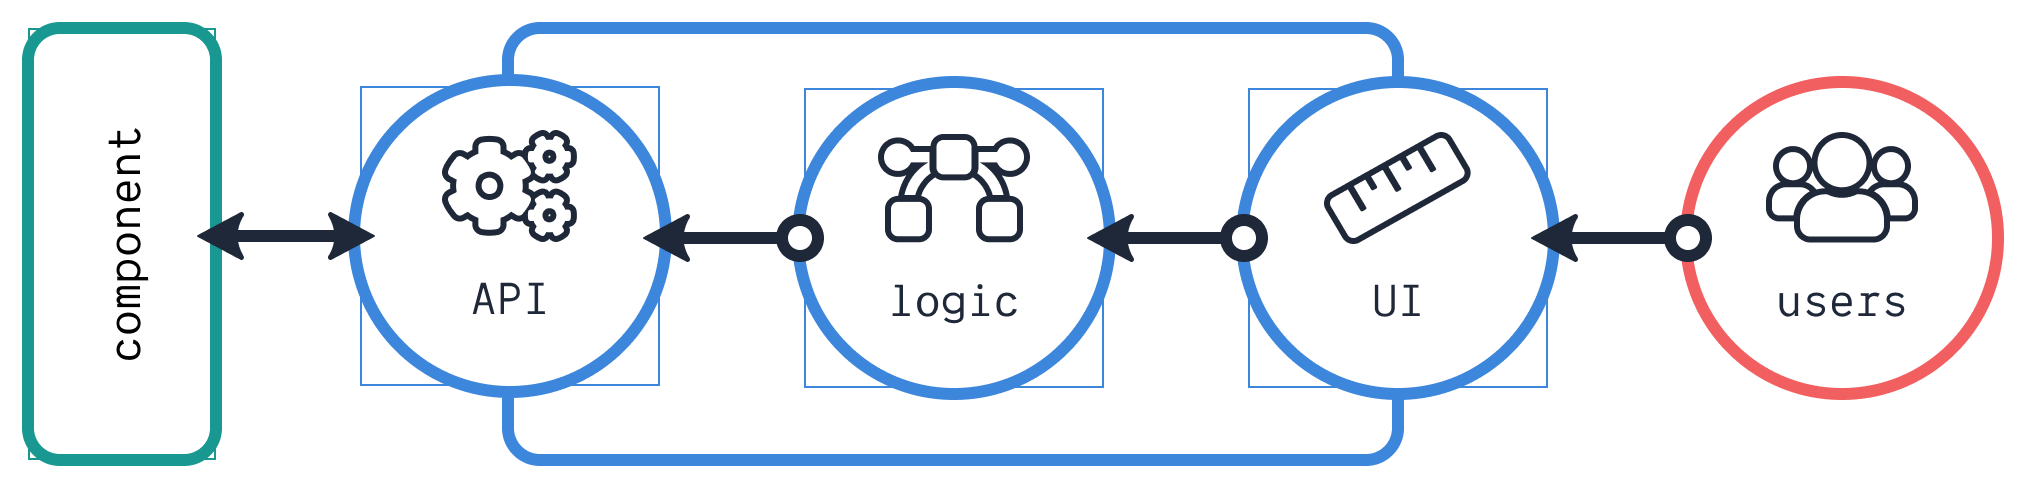
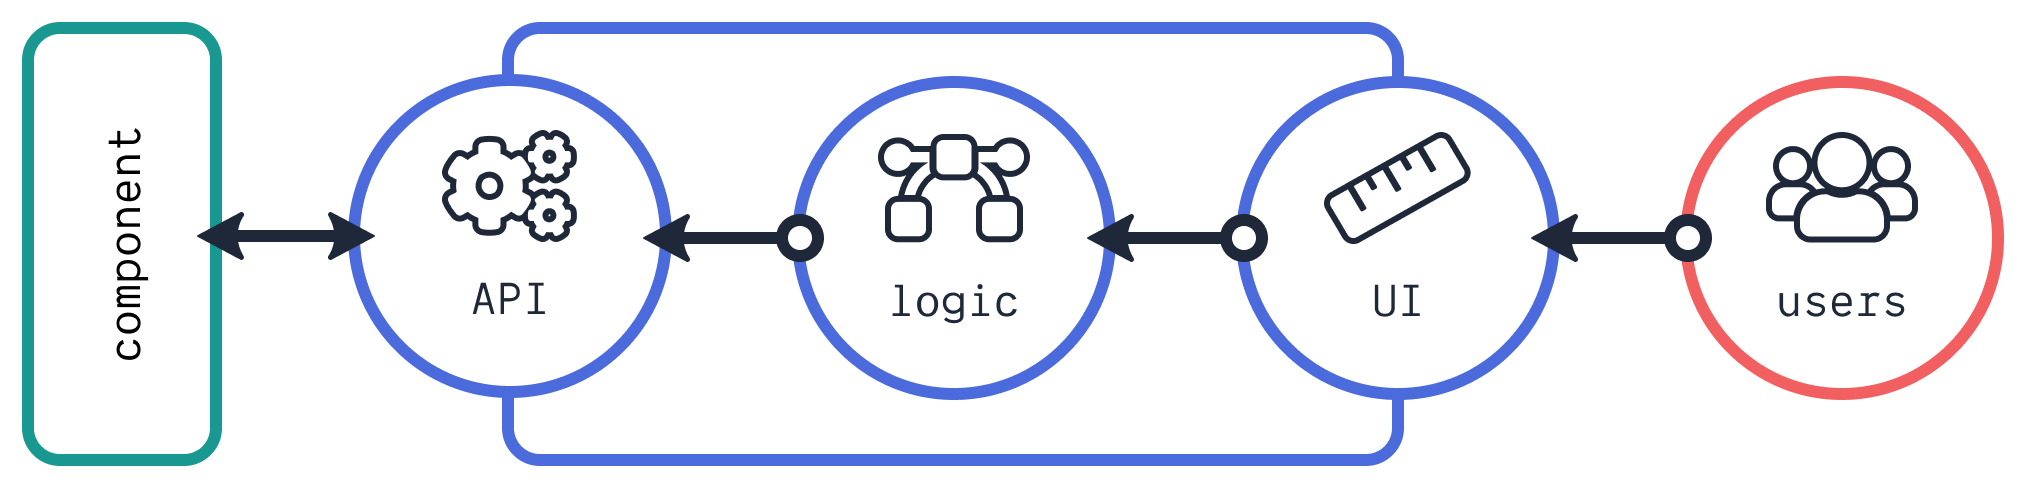
rebranding and setup for new pages

diff --git a/src/templates/page.js b/src/templates/page.js
@@ -1,0 +1,62 @@
+import React from 'react';
+import { graphql } from 'gatsby';
+import PageTemplate from '../components/PageTemplate';
+import Layout from '../components/Layout';
+import PageSwitcher from '../components/PageSwitcher';
+
+const BlogPost = ({ data, pageContext }) => {
+  const { markdownRemark: post } = data;
+  let next, prev;
+
+  if (pageContext.next)
+    next = {
+      link: pageContext.next.fields.slug,
+      title: pageContext.next.frontmatter.title
+    };
+
+  if (pageContext.prev)
+    prev = {
+      link: pageContext.prev.fields.slug,
+      title: pageContext.prev.frontmatter.title
+    };
+
+  const meta = {
+    ...post.frontmatter,
+    words: post.wordCount.words,
+    url: `https://www.kevtiq.co${data.markdownRemark.fields.slug}`
+  };
+
+  return (
+    <Layout
+      meta={{ ...post.frontmatter, slug: post.fields.slug }}
+      footer={true}
+      className="post">
+      <PageTemplate meta={meta}>{post.html}</PageTemplate>
+      <PageSwitcher prev={prev} next={next} />
+    </Layout>
+  );
+};
+
+export default BlogPost;
+
+export const pageQuery = graphql`
+  query PageID($id: String!) {
+    markdownRemark(id: { eq: $id }) {
+      id
+      html
+      wordCount {
+        words
+      }
+      fields {
+        slug
+      }
+      frontmatter {
+        date(formatString: "MMMM DD, YYYY")
+        title
+        description
+        tags
+        featuredImage
+      }
+    }
+  }
+`;

diff --git a/src/components/PageTemplate.js b/src/components/PageTemplate.js
@@ -1,0 +1,36 @@
+import React from 'react';
+import logoDark from '../img/logo-dark.svg';
+import logoLight from '../img/logo-light.svg';
+import { AppContext } from './Context';
+
+const BlogPostTemplate = ({ meta, children }) => {
+  const { theme } = React.useContext(AppContext);
+  const twt = `${meta.title} by @kevtiq ${meta.url}`;
+
+  return (
+    <article className="post">
+      <header className="post__header" role="contentinfo">
+        <h1>{meta.title}</h1>
+        <span className="post__meta">
+          <a href={`https://twitter.com/intent/tweet?text=${twt}`}>
+            share on twitter
+          </a>
+        </span>
+      </header>
+
+      <section
+        className="post__body"
+        dangerouslySetInnerHTML={{ __html: children }}
+      />
+      <div className="divider">
+        <img
+          src={theme === 'dark' ? logoDark : logoLight}
+          alt="Kevtiq logo used by Kevin Pennekamp"
+          className="logo__img"
+        />
+      </div>
+    </article>
+  );
+};
+
+export default BlogPostTemplate;

diff --git a/gatsby-node.esm.js b/gatsby-node.esm.js
@@ -117,9 +117,15 @@ exports.createPages = ({ actions, graphql }) => {
       (p) => new Date(_.get(p, 'node.frontmatter.date')) <= new Date()
     );
 
+    const blogposts = posts.filter(
+      (p) => _.get(p, 'node.frontmatter.templateKey') === 'blog-post'
+    );
+
+    console.log(posts.length, blogposts.length);
+
     createPostPage(createPage, posts);
-    createIndexPages(createPage, posts);
-    createTagPages(createPage, posts);
+    createIndexPages(createPage, blogposts);
+    createTagPages(createPage, blogposts);
   });
 };
 

diff --git a/src/components/Layout.js b/src/components/Layout.js
@@ -30,7 +30,7 @@ const PageWrapper = ({ children, meta }) => {
               alt="Kevtiq logo used by Kevin Pennekamp"
               className="logo__img"
             />
-            <span className="logo__text">kevtiq</span>
+            <span className="logo__text">kvtiq</span>
           </Link>
           <button
             className={`toggle toggle__${theme}`}

diff --git a/src/templates/blog-overview.js b/src/templates/blog-overview.js
@@ -51,7 +51,9 @@ export const postOverviewPageQuery = graphql`
       limit: $limit
       skip: $skip
       sort: { fields: [frontmatter___date], order: DESC }
-      filter: { frontmatter: { draft: { eq: false } } }
+      filter: {
+        frontmatter: { draft: { eq: false }, templateKey: { eq: "blog-post" } }
+      }
     ) {
       totalCount
       edges {

diff --git a/gatsby-config.js b/gatsby-config.js
@@ -2,7 +2,7 @@ module.exports = {
   siteMetadata: {
     siteUrl: 'https://www.kevtiq.co',
     author: 'Kevin Pennekamp',
-    title: 'kevtiq; Kevin Pennekamp',
+    title: 'kvtiq | Kevin Pennekamp',
     image: '/img/kevtiq-logo.png',
     twitterName: '@kevtiq',
     description:

diff --git a/src/pages/reference-architecture.md b/src/pages/reference-architecture.md
@@ -1,0 +1,92 @@
+---
+templateKey: page
+draft: false
+title: Front-end reference architecture
+description: >-
+  This document describes a front-end reference architecture for digital enterprises. It offers a framework-agnostic architectural best practices focused on the application behind the user interface.
+---
+
+> This document describes a front-end reference architecture for digital enterprises. It offers a framework-agnostic architectural best practices focused on the application behind the user interface.
+
+## Introduction
+
+This reference architecture aims to enable front-end engineers to create large scale applications for enterprises. These applications are characterized by large code-bases, long development time and. many external connections. But most importantly, many users. To achieve control over the business outcomes (adaptability, predictability, quality and innovation) of the application, three principles are key:
+
+- **Scalability**, to deal with new user-features, new external APIs the application has to connect to and more heavy background tasks;
+- **Maintainability**, by applying a solid structure, responsibilities of tasks, [separation of concerns](https://en.wikipedia.org/wiki/Separation_of_concerns), and modularity in the user interface;
+- **Resilience**, to ensure a stable user experience, by applying safe-guards in the heart of the application.
+
+In the remainder of this document, several diagrams are displayed. The meaning of the different types of blocks in these diagrams are specified in the legend, below.
+
+![](images/architecture-legend.png)
+
+## High-level overview
+
+The main idea behind the reference architecture is to implement [domain driven development](https://martinfowler.com/bliki/BoundedContext.html). To facilitate this, a simple [layered architecture](https://en.wikipedia.org/wiki/Multitier_architecture) with three layers is introduced:
+
+- The **routing** layer is part of the presentation layer. This layers determines which module(s) are presented to the user;
+- The **modules** layer represents the remainder of the presentation layer, but also the business layer. The majority of the work will be in this layer. A module (or a [cell](https://github.com/wso2/reference-architecture/blob/master/reference-architecture-cell-based.md) of modules) is created by applying [domain driven development](https://martinfowler.com/bliki/BoundedContext.html) in this layer;
+- The **core** layer represents the application and data access layer.
+
+![](images/architecture-high-level.png)
+
+## Application core
+
+The core layer of this reference architecture consists of several linked components, as visualized and detailed below. Combined, these components contribute to three principles of this architecture.
+
+- An application **store** that holds application critical data. This data directly impacts how the application behaves for users;
+- An **gateway** that is responsible for all outgoing communication. In case of a single external source, a single API client suffices. But when there are multiple external sources, the gateway acts like a mediator/facade that manages all requests for the different sources;
+- The **[pub/sub](https://en.wikipedia.org/wiki/Publish%E2%80%93subscribe_pattern)** is used to synchronize other components in the core layer, and asynchronously update the presentation layer when updates (e.g. responses from an API) come in. In addition, it can be used to allow for cross-browser tab synchronization of critical data;
+- A **process manager** that is used to prioritize and manage heavy operations that run in the background on various (web-)workers.
+
+![](images/architecture-core.png)
+
+Besides these linked components, several other components can live in the core layer. Examples are the browser **history** stack, or a **system tracker** that can be used for error handling and logging.
+
+### Application store
+
+An application store, or data storage, is used for global state management, and is often required for large-scale front-end applications. Ideally, the application store follows the patterns around [event sourcing](https://martinfowler.com/eaaDev/EventSourcing.html). This means that the store should be:
+
+- The data is stored in a **centralized** place;
+- **Event driven** to ensure that the store at determines how the data should change, based on the event;
+- **Immutable** to avoid the data in the store being mutated from outside of the store.
+
+To comply with the principles of this reference architecture, most business-related state management happens at the module-level. Furthermore, a decoupled state interface has a higher synergy with modules, making it more maintainable. The decoupled state interface is achieved by introducing an **access layer** on top of the data storage. Anywhere one can define events (`get`, `set`, `update`, `remove`) or a `transaction` that combines multiple events, that influence the data. Due to this decoupled state interface, it is the preferred approach in this reference architecture. However, both approaches are possible.
+
+![](images/architecture-core-store.png)
+
+> **NOTE**: many front-end applications use global state managements for all data. Many existing global state management packages like [Redux](https://redux.js.org/style-guide/style-guide) have a coupled state interface driven by reducer functions (`reducer: (state, event) => state`).
+
+Whenever a component (from the core layer, or a UI component) triggers an event, the data storage is changed. The access layer also sends an event (including the changed data) via the pub/sub (except in case of a `get` event). Other components can subscribe to these events and act whenever the data changes. If the data structure in the storage is tree-like, the access layer is responsible to ensure that the corresponding tree-paths are provided with events via the pub/sub.
+
+### API Gateway
+
+> **NOTE**: when there is only one external source, only one API client is used. Many API client packages (e.g. [Apollo Client](https://www.apollographql.com/client/) implement several of the described concepts and flows.
+
+Complex application often require connection to multiple external sources. These sources can require different types of connections (e.g. REST and GraphQL). To comply with the principles of the reference architecture, a [**mediator**](https://en.wikipedia.org/wiki/Mediator_pattern) is used. Within the mediator, each external source gets its own dedicated **client**.
+
+![](images/architecture-core-gateway.png)
+
+Each request, regardless of the related external source, goes through the mediator. The mediator sends each request though three components:
+
+- The gateway **cache** is a proxy that stores all responses for various request definitions, for a certain period of time ('state-while-revalidate' pattern);
+- A [**circuit breaker**](https://en.wikipedia.org/wiki/Circuit_breaker_design_pattern) maintains the state of the external source. If a server error is received, outgoing requests are bounced to prevent reoccurring failure;
+- Each request is enhanced or aborted by a chain of **middleware** (e.g. the refreshing of authentication information before the actual request is send out). Each middleware in the chain has access to the application store and it can subscribe to store events via the pub/sub.
+
+After a request goes through these blocks, it will go to its specific client. The response is handled by passing it back to the component sending the request. In case of a `cache-network` strategy, the values from the cache are directly provided back to the component sending the request. In the mean time, the request goes through the chain and is send to the source. The moment the mediator receives the response, the mediator sends the response over the pub/sub. As the requesting component is subscribed to the pub/sub, it can update the shown cached values with the new values.
+
+## Modules
+
+Domain driven development
+
+### Module architecture
+
+![](images/architecture-module.png)
+
+### Types of modules
+
+### Example
+
+## Components
+
+![](images/architecture-component.png)

diff --git a/src/pages/about.md b/src/pages/about.md
@@ -1,0 +1,9 @@
+---
+templateKey: page
+draft: false
+title: About me
+description: >-
+  About me
+---
+
+hello.
